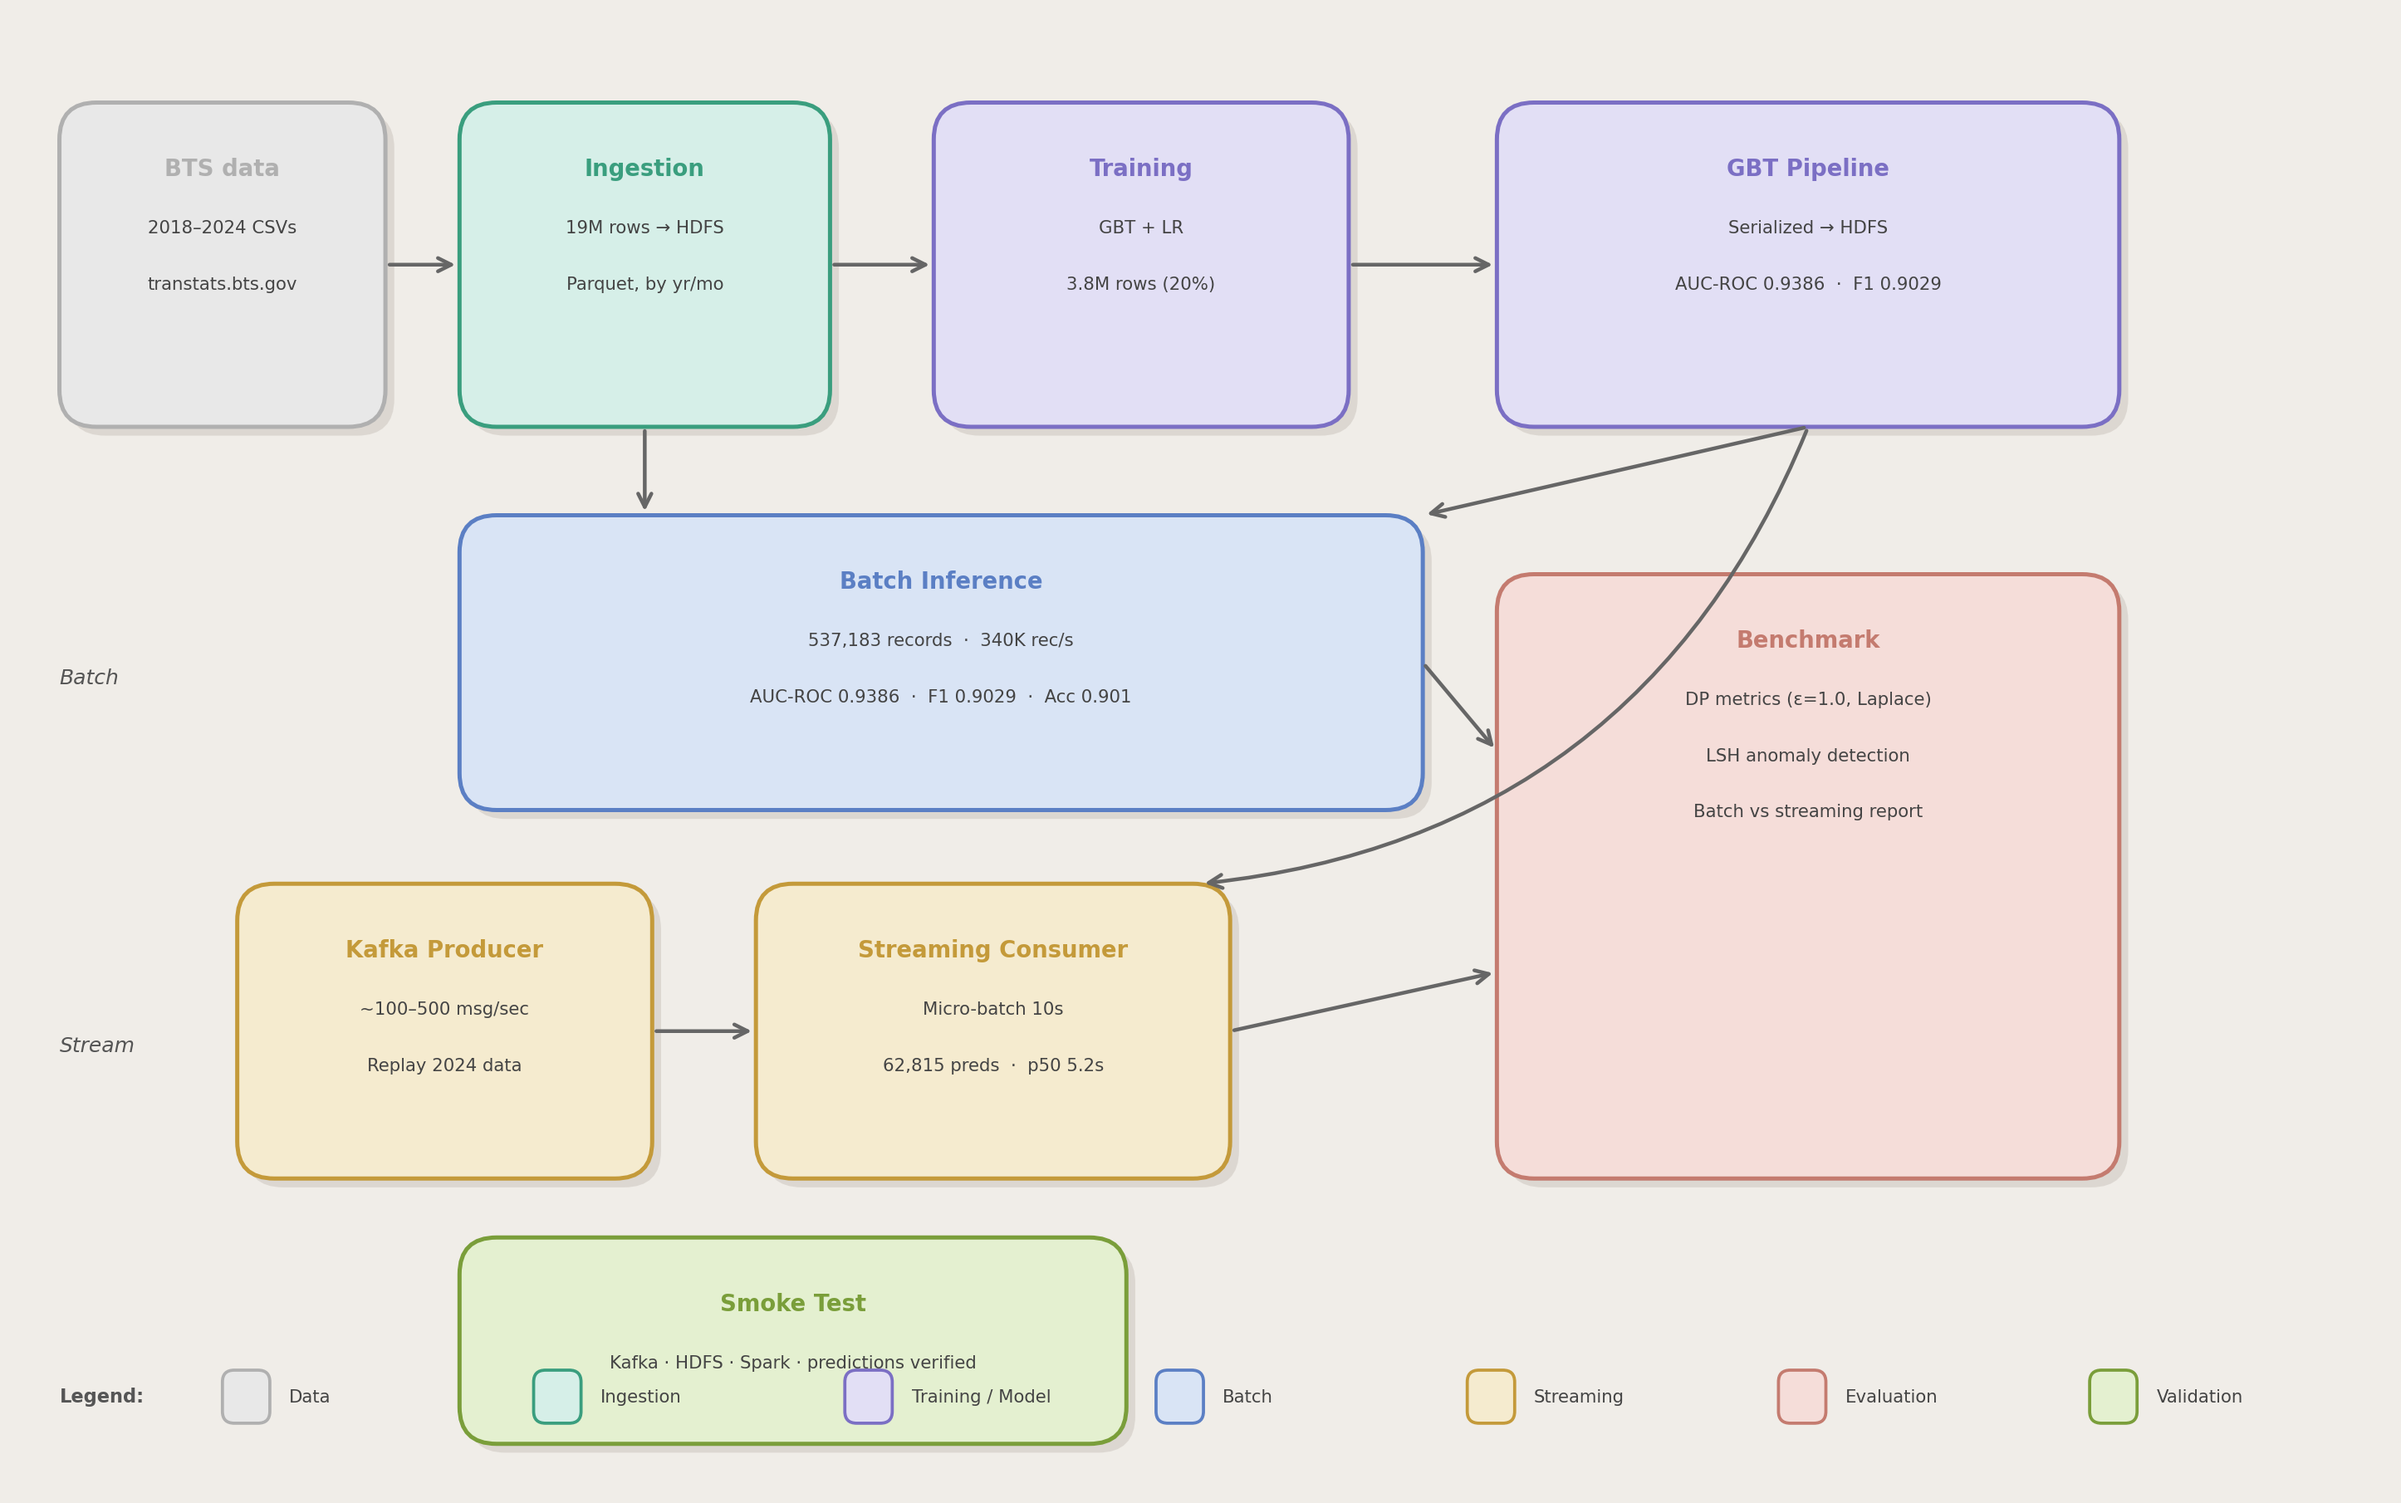
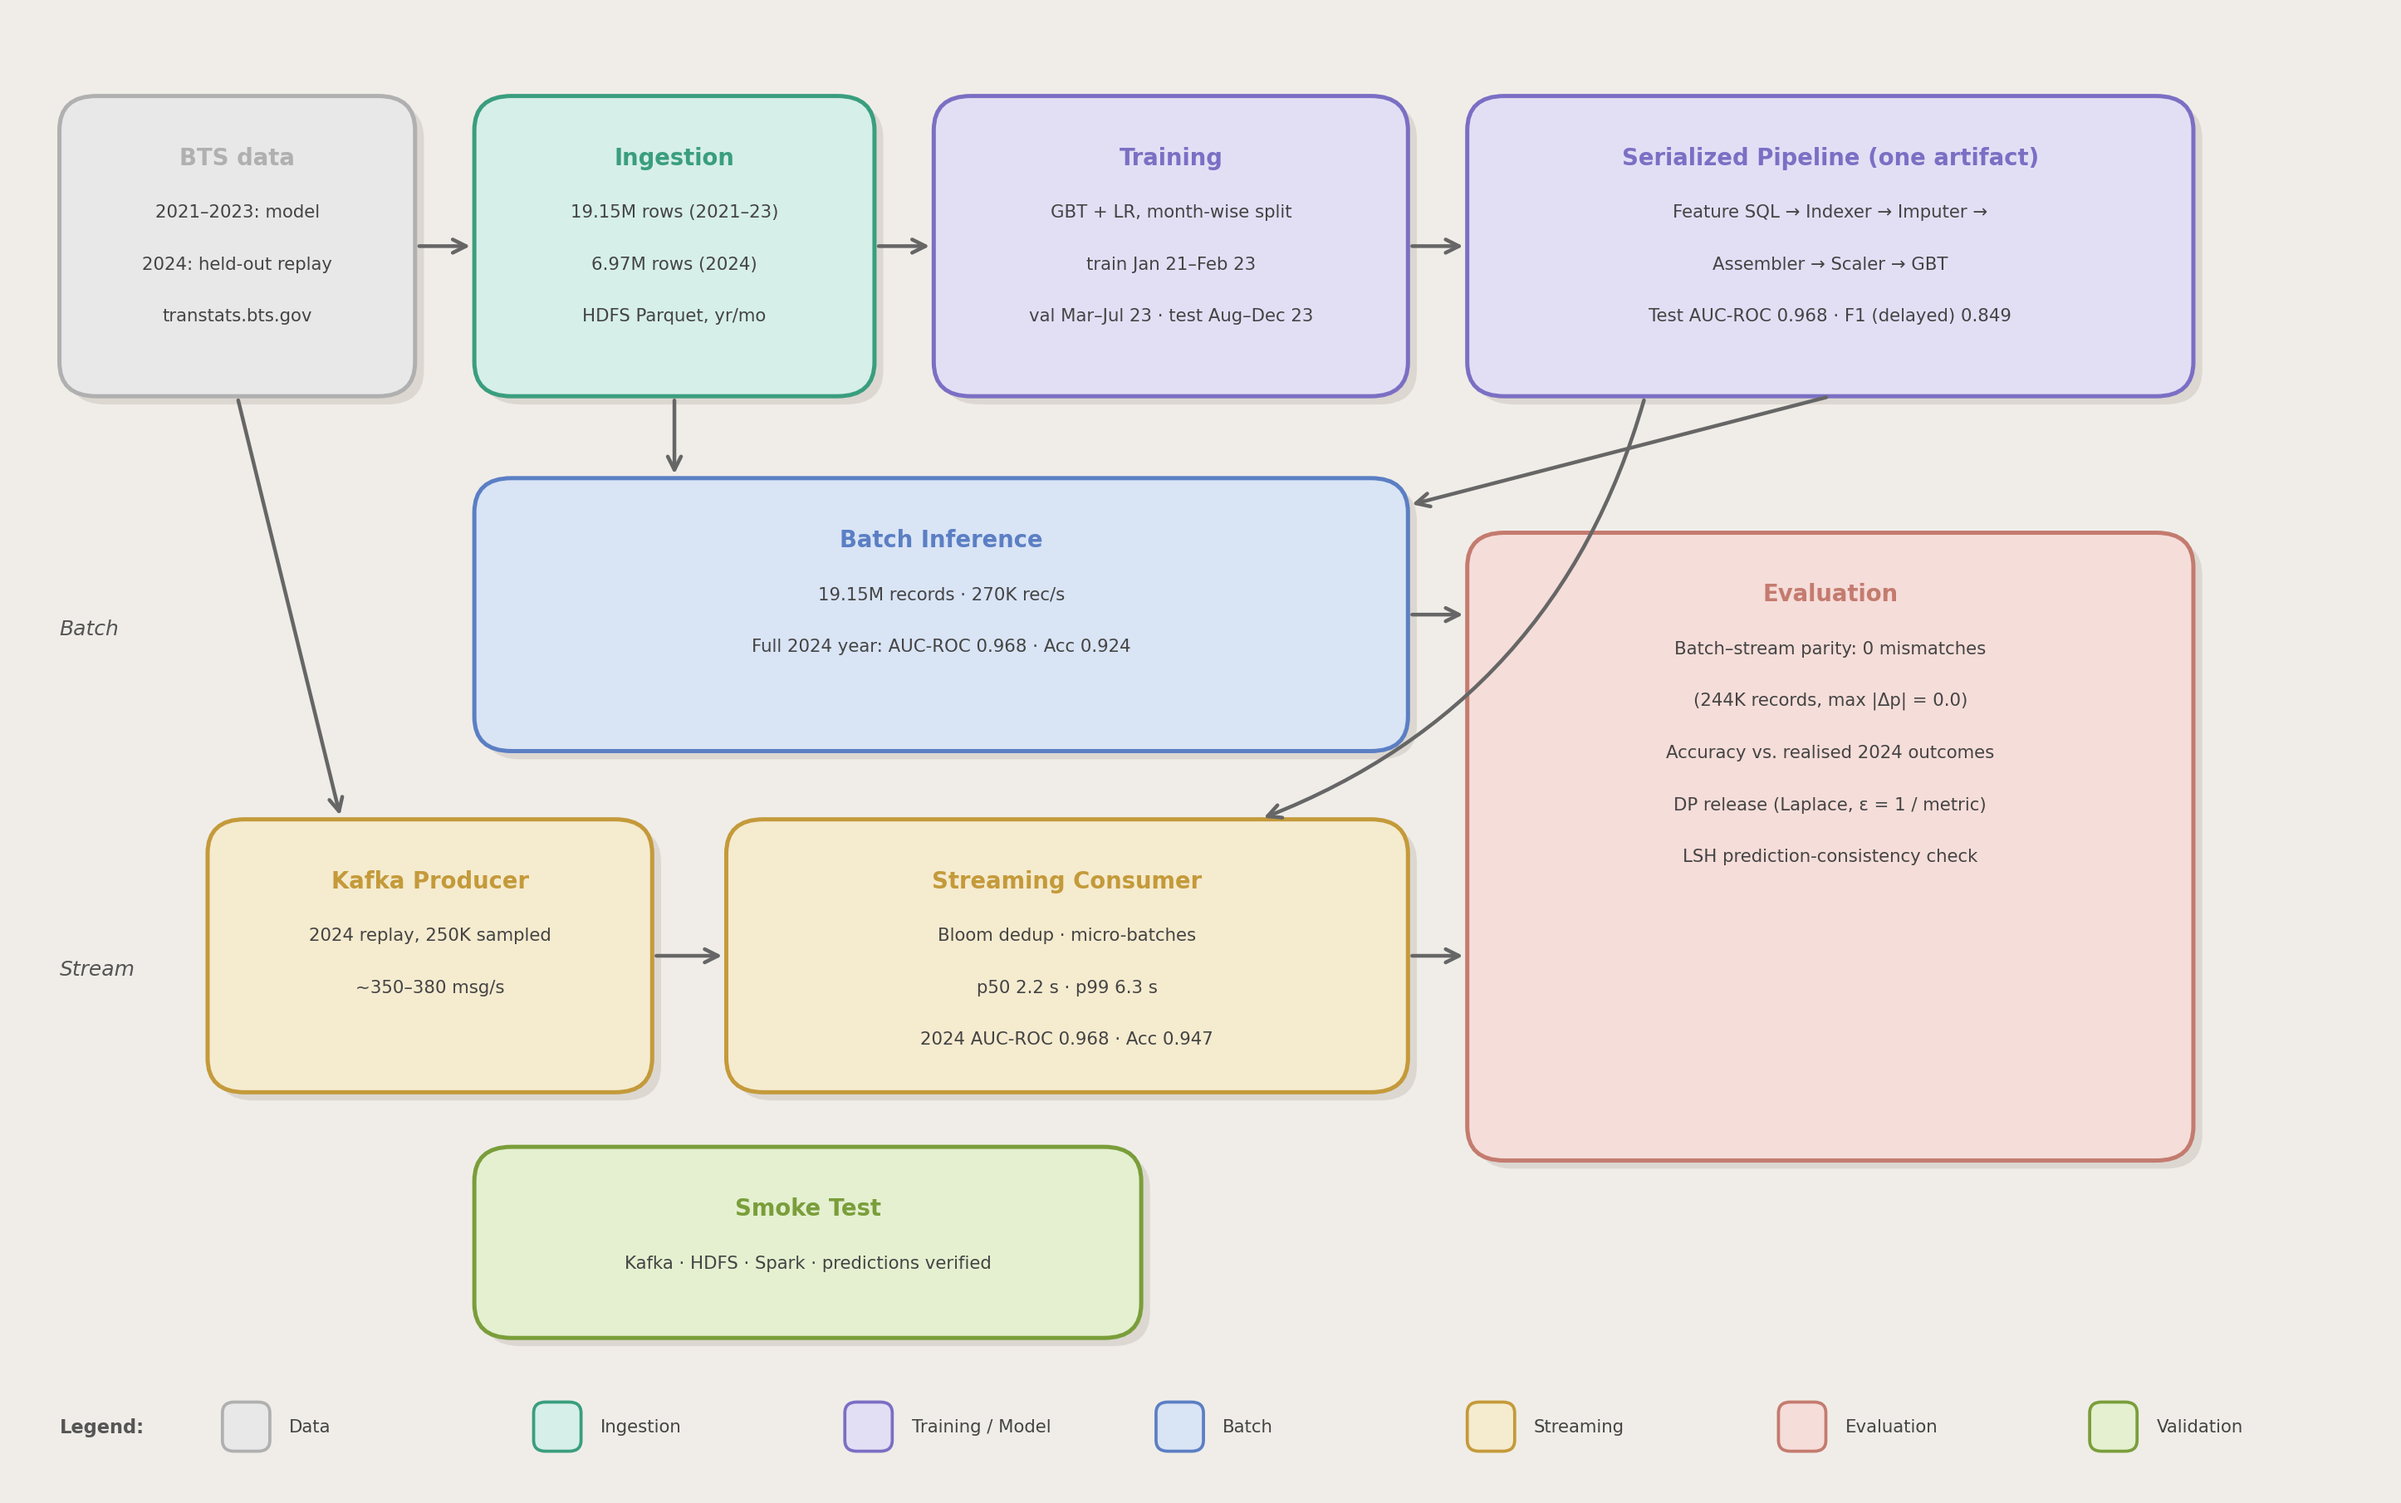
Update architecture diagram to the current pipeline and results
- Replace stale numbers (2018-2024 data, 3.8M training rows, AUC
  0.9386, 62,815 streamed predictions) with values from the current
  logs.
- Show the chronological split and the single serialized artifact
  with its feature-SQL stage.
- Add the raw-2024 -> producer data path.
- Move the legend so it no longer overlaps the smoke-test box.

diff --git a/generate_architecture.py b/generate_architecture.py
@@ -4,7 +4,7 @@ import matplotlib.patches as mpatches
 
 fig, ax = plt.subplots(figsize=(16, 10))
 ax.set_xlim(0, 16)
-ax.set_ylim(0, 10)
+ax.set_ylim(-0.8, 10)
 ax.axis('off')
 fig.patch.set_facecolor('#f0ede8')
 ax.set_facecolor('#f0ede8')
@@ -53,65 +53,76 @@ def label(ax, x, y, text):
     ax.text(x, y, text, fontsize=10, color='#555555',
             va='center', ha='left', style='italic')
 
+# Numbers below are from logs/train_chronological_full_corpus.json,
+# logs/batch_chrono_gbt_*.json and logs/streaming_eval_2024_trigger0s.json.
+
 # ── TOP ROW ────────────────────────────────────────────────────────────────────
-box(ax, 0.3, 7.2, 2.2, 2.2, 'data', 'BTS data',
-    ['2018–2024 CSVs', 'transtats.bts.gov'])
+box(ax, 0.3, 7.2, 2.4, 2.2, 'data', 'BTS data',
+    ['2021–2023: model', '2024: held-out replay', 'transtats.bts.gov'])
 
-box(ax, 3.0, 7.2, 2.5, 2.2, 'ingest', 'Ingestion',
-    ['19M rows → HDFS', 'Parquet, by yr/mo'])
+box(ax, 3.1, 7.2, 2.7, 2.2, 'ingest', 'Ingestion',
+    ['19.15M rows (2021–23)', '6.97M rows (2024)', 'HDFS Parquet, yr/mo'])
 
-box(ax, 6.2, 7.2, 2.8, 2.2, 'model', 'Training',
-    ['GBT + LR', '3.8M rows (20%)'])
+box(ax, 6.2, 7.2, 3.2, 2.2, 'model', 'Training',
+    ['GBT + LR, month-wise split', 'train Jan 21–Feb 23', 'val Mar–Jul 23 · test Aug–Dec 23'])
 
-box(ax, 10.0, 7.2, 4.2, 2.2, 'model', 'GBT Pipeline',
-    ['Serialized → HDFS', 'AUC-ROC 0.9386  ·  F1 0.9029'])
+box(ax, 9.8, 7.2, 4.9, 2.2, 'model', 'Serialized Pipeline (one artifact)',
+    ['Feature SQL → Indexer → Imputer →', 'Assembler → Scaler → GBT',
+     'Test AUC-ROC 0.968 · F1 (delayed) 0.849'])
 
 # ── BATCH ROW ──────────────────────────────────────────────────────────────────
 label(ax, 0.3, 5.5, 'Batch')
-box(ax, 3.0, 4.6, 6.5, 2.0, 'batch', 'Batch Inference',
-    ['537,183 records  ·  340K rec/s', 'AUC-ROC 0.9386  ·  F1 0.9029  ·  Acc 0.901'])
+box(ax, 3.1, 4.6, 6.3, 2.0, 'batch', 'Batch Inference',
+    ['19.15M records · 270K rec/s',
+     'Full 2024 year: AUC-ROC 0.968 · Acc 0.924'])
 
 # ── STREAM ROW ─────────────────────────────────────────────────────────────────
 label(ax, 0.3, 3.0, 'Stream')
-box(ax, 1.5, 2.1, 2.8, 2.0, 'stream', 'Kafka Producer',
-    ['~100–500 msg/sec', 'Replay 2024 data'])
+box(ax, 1.3, 2.1, 3.0, 2.0, 'stream', 'Kafka Producer',
+    ['2024 replay, 250K sampled', '~350–380 msg/s'])
 
-box(ax, 5.0, 2.1, 3.2, 2.0, 'stream', 'Streaming Consumer',
-    ['Micro-batch 10s', '62,815 preds  ·  p50 5.2s'])
+box(ax, 4.8, 2.1, 4.6, 2.0, 'stream', 'Streaming Consumer',
+    ['Bloom dedup · micro-batches', 'p50 2.2 s · p99 6.3 s',
+     '2024 AUC-ROC 0.968 · Acc 0.947'])
 
 # ── SMOKE TEST ─────────────────────────────────────────────────────────────────
-box(ax, 3.0, 0.3, 4.5, 1.4, 'valid', 'Smoke Test',
+box(ax, 3.1, 0.3, 4.5, 1.4, 'valid', 'Smoke Test',
     ['Kafka · HDFS · Spark · predictions verified'])
 
 # ── BENCHMARK ──────────────────────────────────────────────────────────────────
-box(ax, 10.0, 2.1, 4.2, 4.1, 'eval', 'Benchmark',
-    ['DP metrics (ε=1.0, Laplace)',
-     'LSH anomaly detection',
-     'Batch vs streaming report'])
+box(ax, 9.8, 1.6, 4.9, 4.6, 'eval', 'Evaluation',
+    ['Batch–stream parity: 0 mismatches',
+     '(244K records, max |Δp| = 0.0)',
+     'Accuracy vs. realised 2024 outcomes',
+     'DP release (Laplace, ε = 1 / metric)',
+     'LSH prediction-consistency check'])
 
 # ── ARROWS ─────────────────────────────────────────────────────────────────────
 # top row
-arrow(ax, 2.5,  8.3, 3.0,  8.3)
-arrow(ax, 5.5,  8.3, 6.2,  8.3)
-arrow(ax, 9.0,  8.3, 10.0, 8.3)
+arrow(ax, 2.7,  8.3, 3.1,  8.3)
+arrow(ax, 5.8,  8.3, 6.2,  8.3)
+arrow(ax, 9.4,  8.3, 9.8,  8.3)
 
-# GBT pipeline down to batch inference
-arrow(ax, 12.1, 7.2, 9.5, 6.6)
+# pipeline down to batch inference
+arrow(ax, 12.25, 7.2, 9.4, 6.4)
 
-# GBT pipeline down to streaming consumer
-arrow(ax, 12.1, 7.2, 8.0, 4.1, rad=-0.3)
+# pipeline down to streaming consumer
+arrow(ax, 11.0, 7.2, 8.4, 4.1, rad=-0.25)
 
 # ingestion → batch (data path)
-arrow(ax, 4.25, 7.2, 4.25, 6.6)
+arrow(ax, 4.45, 7.2, 4.45, 6.6)
+
+# raw 2024 CSVs → producer
+arrow(ax, 1.5, 7.2, 2.2, 4.1)
 
 # kafka → streaming
-arrow(ax, 4.3,  3.1, 5.0,  3.1)
+arrow(ax, 4.3,  3.1, 4.8,  3.1)
 
-# streaming → benchmark
-arrow(ax, 8.2,  3.1, 10.0, 3.5)
+# streaming → evaluation
+arrow(ax, 9.4,  3.1, 9.8,  3.1)
 
-# batch → benchmark
-arrow(ax, 9.5,  5.6, 10.0, 5.0)
+# batch → evaluation
+arrow(ax, 9.4,  5.6, 9.8,  5.6)
 
 # ── LEGEND ─────────────────────────────────────────────────────────────────────
 legend_items = [
@@ -124,7 +135,7 @@ legend_items = [
     ('valid',  'Validation'),
 ]
 lx = 0.3
-ly = 0.62
+ly = -0.35
 ax.text(lx, ly, 'Legend:', fontsize=9, color='#555555',
         fontweight='bold', va='center')
 for i, (key, name) in enumerate(legend_items):
